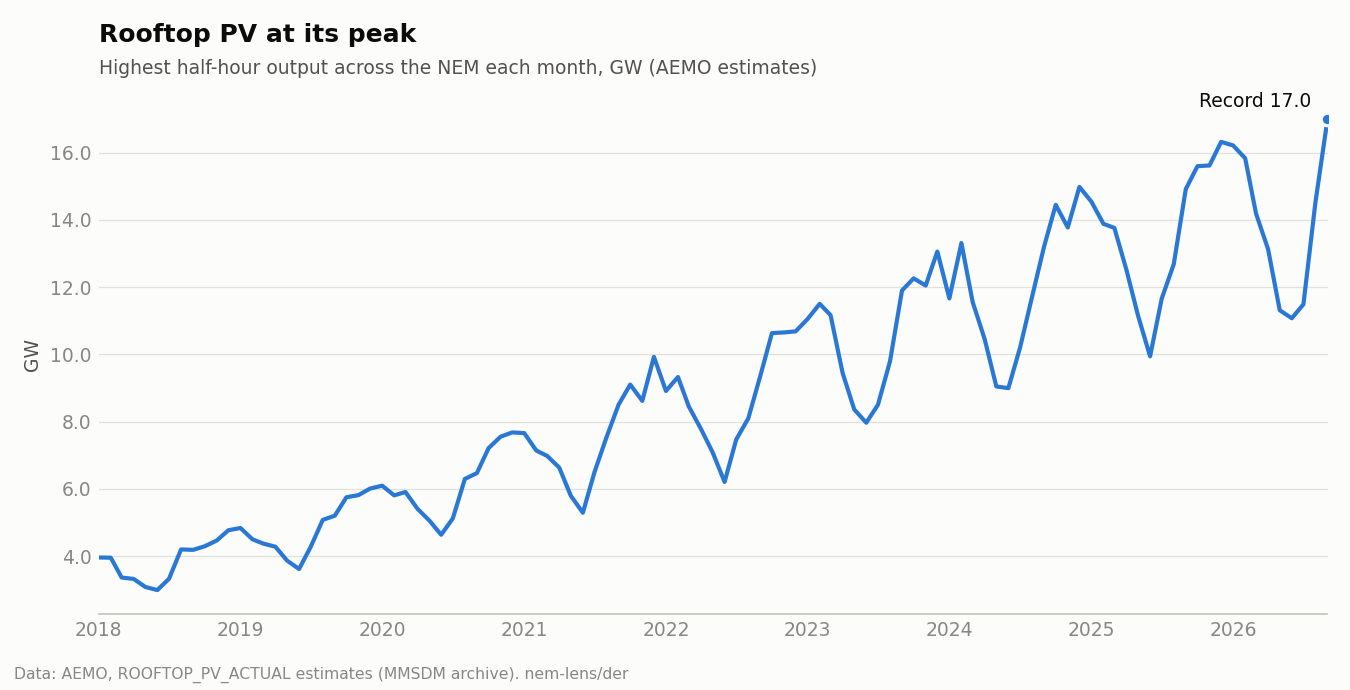
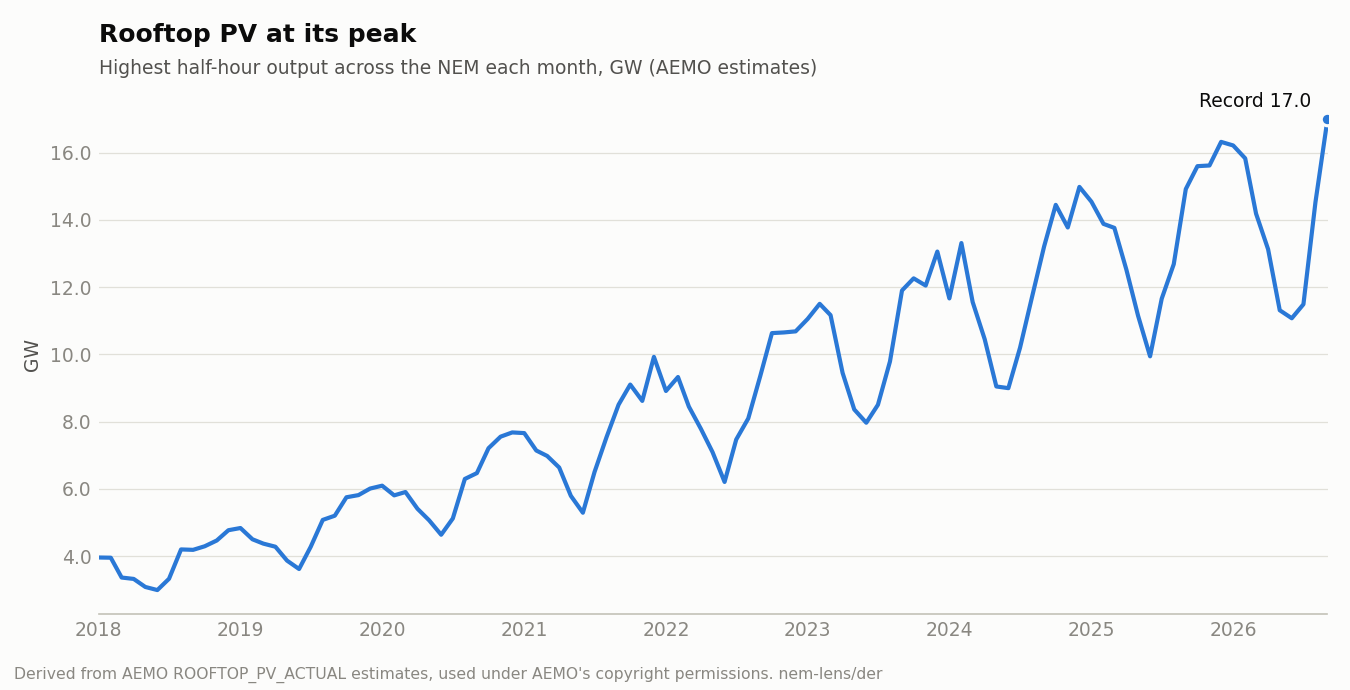
Licences: copyright Archie C. Chapman; CER attribution in CER's wording
LICENSE and SPDX headers name Archie C. Chapman as copyright holder.
The README's licence section uses CER's wording for derived material,
says what was changed, and that the CER and AEMO have not endorsed it.
Chart credit lines say the same in brief; the charts are rebuilt and the
data files are unchanged. (master session, 24 Oct)

Claude-Session: https://claude.ai/code/session_01Absj66i7Y7iDR3fr46v4Hb

Changed region(s): [[0.0311, 0.9435, 0.6533, 1.0]]

diff --git a/build.py b/build.py
@@ -1,3 +1,5 @@
+# Copyright (c) 2026 Archie C. Chapman
+# SPDX-License-Identifier: BSD-3-Clause
 """Build the DER tables, charts and headline figures from the raw downloads.
 
     python build.py [--raw raw]
@@ -304,8 +306,8 @@ def main() -> int:
     peaks.to_csv(data / "rooftop_pv_nem_monthly_peak.csv", index=False, float_format="%.1f")
     json.dump(json.loads((cer_raw / "sources.json").read_text()), open(data / "cer_sources.json", "w"), indent=2)
 
-    cer_note = "Data: Clean Energy Regulator, small-scale installation postcode data (CC BY 4.0). NEM regions; the ACT counts with NSW. nem-lens/der"
-    aemo_note = "Data: AEMO, ROOFTOP_PV_ACTUAL estimates (MMSDM archive). nem-lens/der"
+    cer_note = "Based on Clean Energy Regulator material, CC BY 4.0. Postcodes aggregated to NEM regions; ACT in NSW. nem-lens/der"
+    aemo_note = "Derived from AEMO ROOFTOP_PV_ACTUAL estimates, used under AEMO's copyright permissions. nem-lens/der"
 
     nb = b.dropna(subset=["region"])
     w = nb.pivot_table(index="month", columns="region", values="usable_kwh", aggfunc="sum").reindex(columns=REGIONS).fillna(0)

diff --git a/fetch_aemo.py b/fetch_aemo.py
@@ -1,3 +1,5 @@
+# Copyright (c) 2026 Archie C. Chapman
+# SPDX-License-Identifier: BSD-3-Clause
 """Download AEMO's rooftop PV estimates from the MMSDM monthly archive.
 
 ROOFTOP_PV_ACTUAL is AEMO's estimate of rooftop PV output per NEM region

diff --git a/fetch_cer.py b/fetch_cer.py
@@ -1,3 +1,5 @@
+# Copyright (c) 2026 Archie C. Chapman
+# SPDX-License-Identifier: BSD-3-Clause
 """Download the Clean Energy Regulator's small-scale installation data.
 
 Fetches the postcode files for batteries and solar PV (installations and

diff --git a/regions.py b/regions.py
@@ -1,3 +1,5 @@
+# Copyright (c) 2026 Archie C. Chapman
+# SPDX-License-Identifier: BSD-3-Clause
 """Australian postcodes to states, and states to NEM regions."""
 
 # NEM regions in a fixed order (largest first), used for every chart.

diff --git a/README.md b/README.md
@@ -76,10 +76,15 @@ Downloads go in `raw/`, which git ignores.
 
 ## Licences
 
-- **Code:** BSD-3-Clause (`LICENSE`).
-- **CER data:** the tables and charts are based on Clean Energy Regulator
-  material licensed under a
-  [Creative Commons Attribution 4.0 licence](https://cer.gov.au/about-us/our-policies/copyright).
-  They are aggregated from postcode to state, region and month.
-- **AEMO data:** derived from AEMO's market data, used under
+- **Code:** Copyright (c) 2026 Archie C. Chapman, under the BSD-3-Clause
+  licence (`LICENSE`).
+- **CER data:** the battery and solar tables and charts are based on Clean
+  Energy Regulator material licensed under a
+  [Creative Commons Attribution 4.0 licence](https://creativecommons.org/licenses/by/4.0/)
+  ([CER copyright](https://cer.gov.au/about-us/our-policies/copyright)).
+  Changes: postcodes are aggregated to state, NEM region and month. The
+  derived tables and charts are shared under the same licence.
+- **AEMO data:** the rooftop PV tables and charts are derived from AEMO's
+  market data, used under
   [AEMO's copyright permissions](https://www.aemo.com.au/privacy-and-legal-notices/copyright-permissions).
+- Neither the CER nor AEMO has reviewed or endorsed this work.
